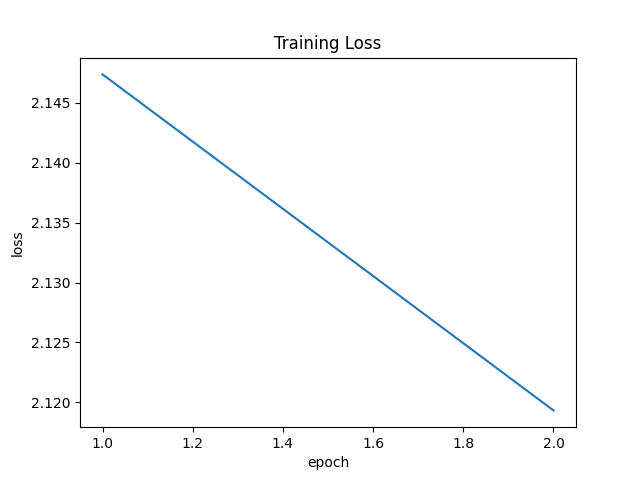
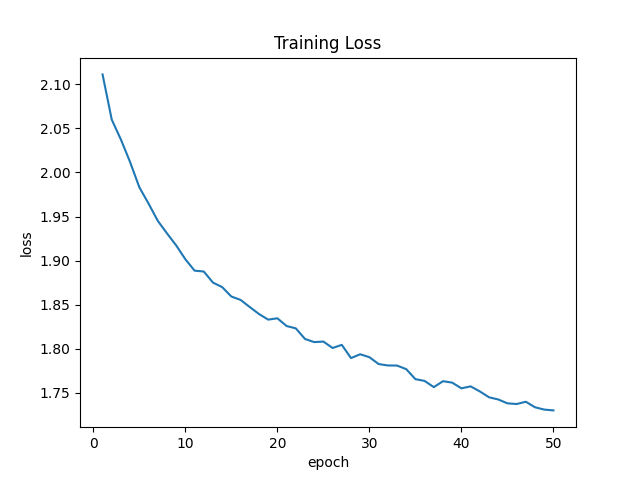
add checkpoint

diff --git a/P2 Image Classification/src/main.py b/P2 Image Classification/src/main.py
@@ -5,13 +5,17 @@ from torch import nn
 from model import ViT
 from torchvision.transforms import v2
 from plot import plot_curves
+import time
 
-EPOCH=2
-BATCH_SIZE=100
+LOAD=False
+SAVE_FREQ=5
+EPOCH=500
+BATCH_SIZE=500
 LR=0.001
+AUG_SIZE=32*4
 
 # Data Augmentation
-train_transform=v2.Compose([v2.RandomResizedCrop(224),
+train_transform=v2.Compose([v2.RandomResizedCrop(AUG_SIZE),
 							v2.RandomVerticalFlip(),
 							v2.RandomRotation(degrees=(0,180)),
 							v2.ToImage(), 
@@ -19,7 +23,7 @@ train_transform=v2.Compose([v2.RandomResizedCrop(224),
 							v2.Normalize(mean=[0.485, 0.456, 0.406],
 					std=[0.229, 0.224, 0.225])])
 
-test_transform=v2.Compose([v2.Resize(224),
+test_transform=v2.Compose([v2.Resize(AUG_SIZE),
 						   v2.ToImage(), 
 						   v2.ToDtype(torch.float32, scale=True),
 						   v2.Normalize(mean=[0.485, 0.456, 0.406],
@@ -41,19 +45,28 @@ cls2idx=torchvision.datasets.CIFAR10(root='../data').class_to_idx
 device=torch.device("cuda" if torch.cuda.is_available() else "cpu")
 print(f"we are using {device}")
 
-vit=ViT(img_size=(224, 224),
+vit=ViT(img_size=(AUG_SIZE, AUG_SIZE),
 		patch_size=(16, 16),
-		embed_dim=100,
+		embed_dim=300,
 		transformer_depth=12,
-		att_dim=150,
-		mlp_dim=300,
+		att_dim=300,
+		mlp_dim=1500,
 		out_dim=10,
 		dropout=0.1).to(device)
 optimizer=torch.optim.Adam(vit.parameters(), lr=LR)
 loss_func=nn.CrossEntropyLoss()
-
+epoch=0
 train_loss=[]
-test_acc=[]
+test_accuracy=[]
+
+if LOAD:
+	cp=torch.load('../checkpoint/vit.pth')
+	vit.load_state_dict(cp['model_state'])
+	optimizer.load_state_dict(cp['optimizer_state'])
+	epoch=cp['current_epoch']
+	train_loss=cp['train_loss']
+	test_accuracy=cp['test_accuracy']
+
 
 def test():
 	correct=total=0.0
@@ -67,7 +80,11 @@ def test():
 		acc=correct/total
 		return acc
 
-for epoch in range(EPOCH):
+
+bnum=len(train_loader)
+while epoch<EPOCH:
+	start_time=time.time()
+	mean_loss=0
 	for step, (x, y) in enumerate(train_loader):
 		x, y=x.to(device), y.to(device)
 		out=vit(x)
@@ -75,15 +92,25 @@ for epoch in range(EPOCH):
 		optimizer.zero_grad()
 		loss.backward()
 		optimizer.step()
+		mean_loss+=loss.data.cpu().numpy()
+	epoch+=1
+	acc=test()
+	mean_loss/=bnum
+	train_loss.append(mean_loss)
+	test_accuracy.append(acc)
+	elapse_time=time.time()-start_time
+	print(f"Epoch {epoch}: train_loss= {mean_loss}, test_accuracy= {acc}, using {elapse_time/60:.2f} minutes")
+	if epoch%SAVE_FREQ==0:
+		checkpoint={
+			'model_state': vit.state_dict(),
+			'optimizer_state': optimizer.state_dict(),
+			'current_epoch': epoch,
+			'train_loss': train_loss,
+			'test_accuracy': test_accuracy,
+		}
+		torch.save(checkpoint, '../checkpoint/vit.pth')
 
-		if step%500==499:
-			acc=test()
-			ls=loss.data.cpu().numpy()
-			train_loss.append(ls)
-			test_acc.append(acc)
-			print(f"Epoch: {epoch+1}| train loss: {ls}| test accuracy: {acc}")
-
-plot_curves(train_loss, test_acc, EPOCH, '../doc/pic/')
+plot_curves(train_loss, test_accuracy, EPOCH, '../doc/pic/')
 
 
 		

diff --git a/P2 Image Classification/src/plot.py b/P2 Image Classification/src/plot.py
@@ -1,5 +1,6 @@
 import matplotlib.pyplot as plt
 import numpy as np
+import torch
 
 def plot_curves(train_loss, test_acc, epoch, root):
 	x_axis=np.linspace(1, epoch, epoch)
@@ -16,3 +17,12 @@ def plot_curves(train_loss, test_acc, epoch, root):
 	plt.ylabel('accuracy')
 	plt.savefig(root+'test_accuracy.png')
 
+def plot_checkpoint():
+	cp=torch.load('../checkpoint/vit.pth')
+	epoch=cp['current_epoch']
+	train_loss=cp['train_loss']
+	test_accuracy=cp['test_accuracy']
+	plot_curves(train_loss, test_accuracy, epoch, root='../doc/pic/')
+
+if __name__=='__main__':
+	plot_checkpoint()
